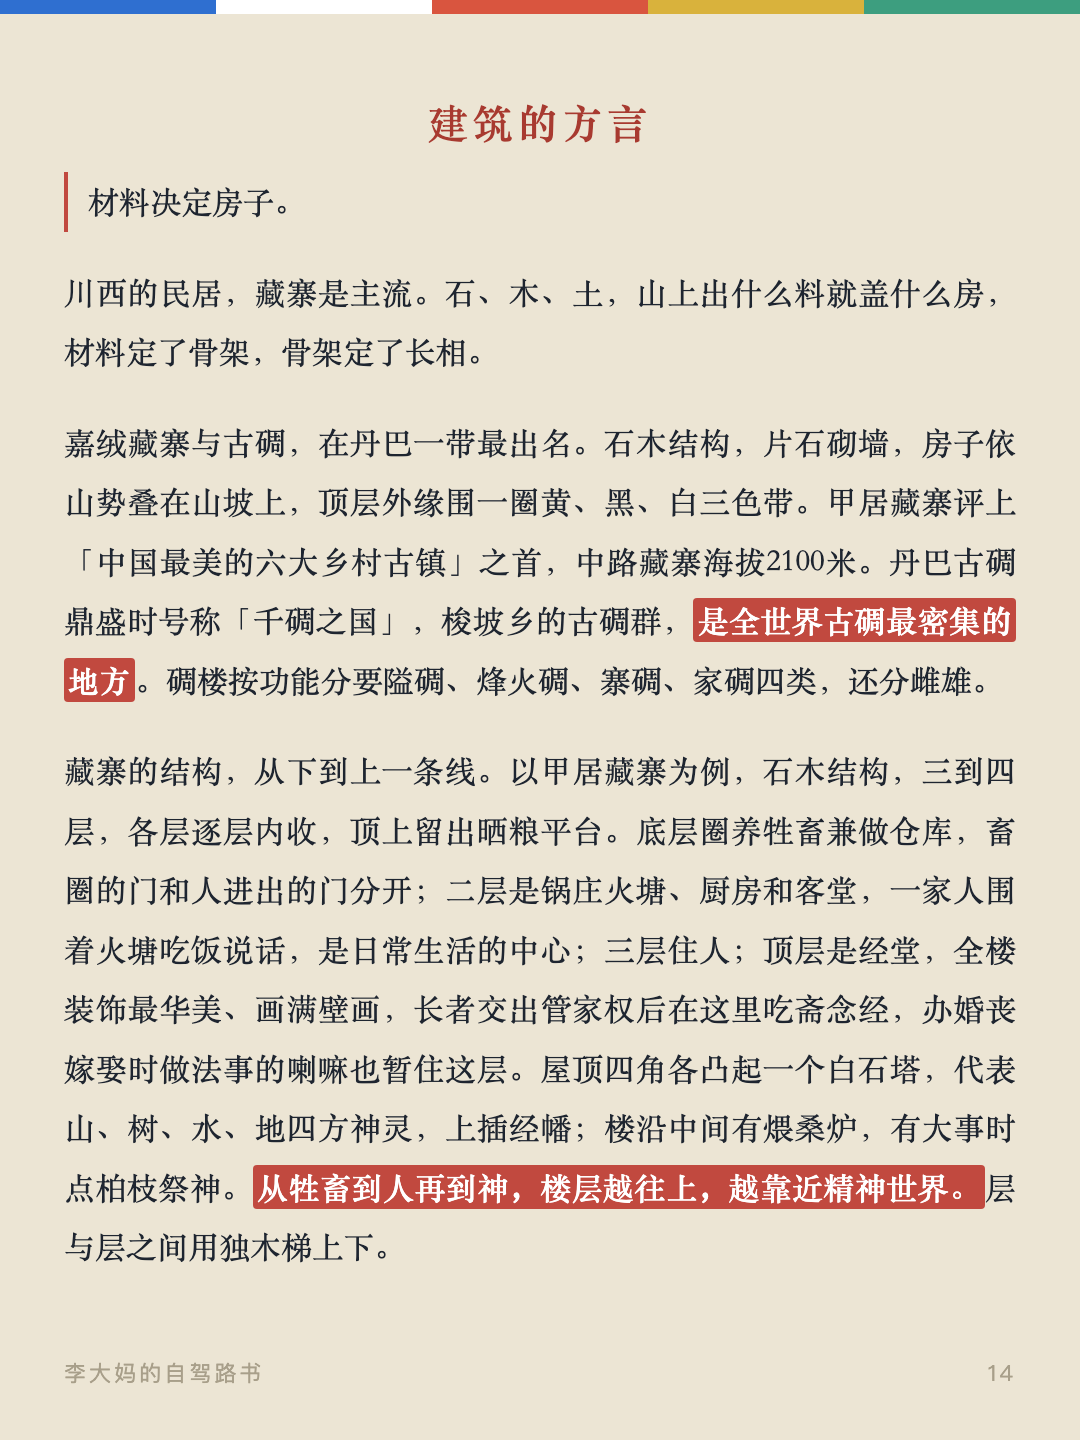
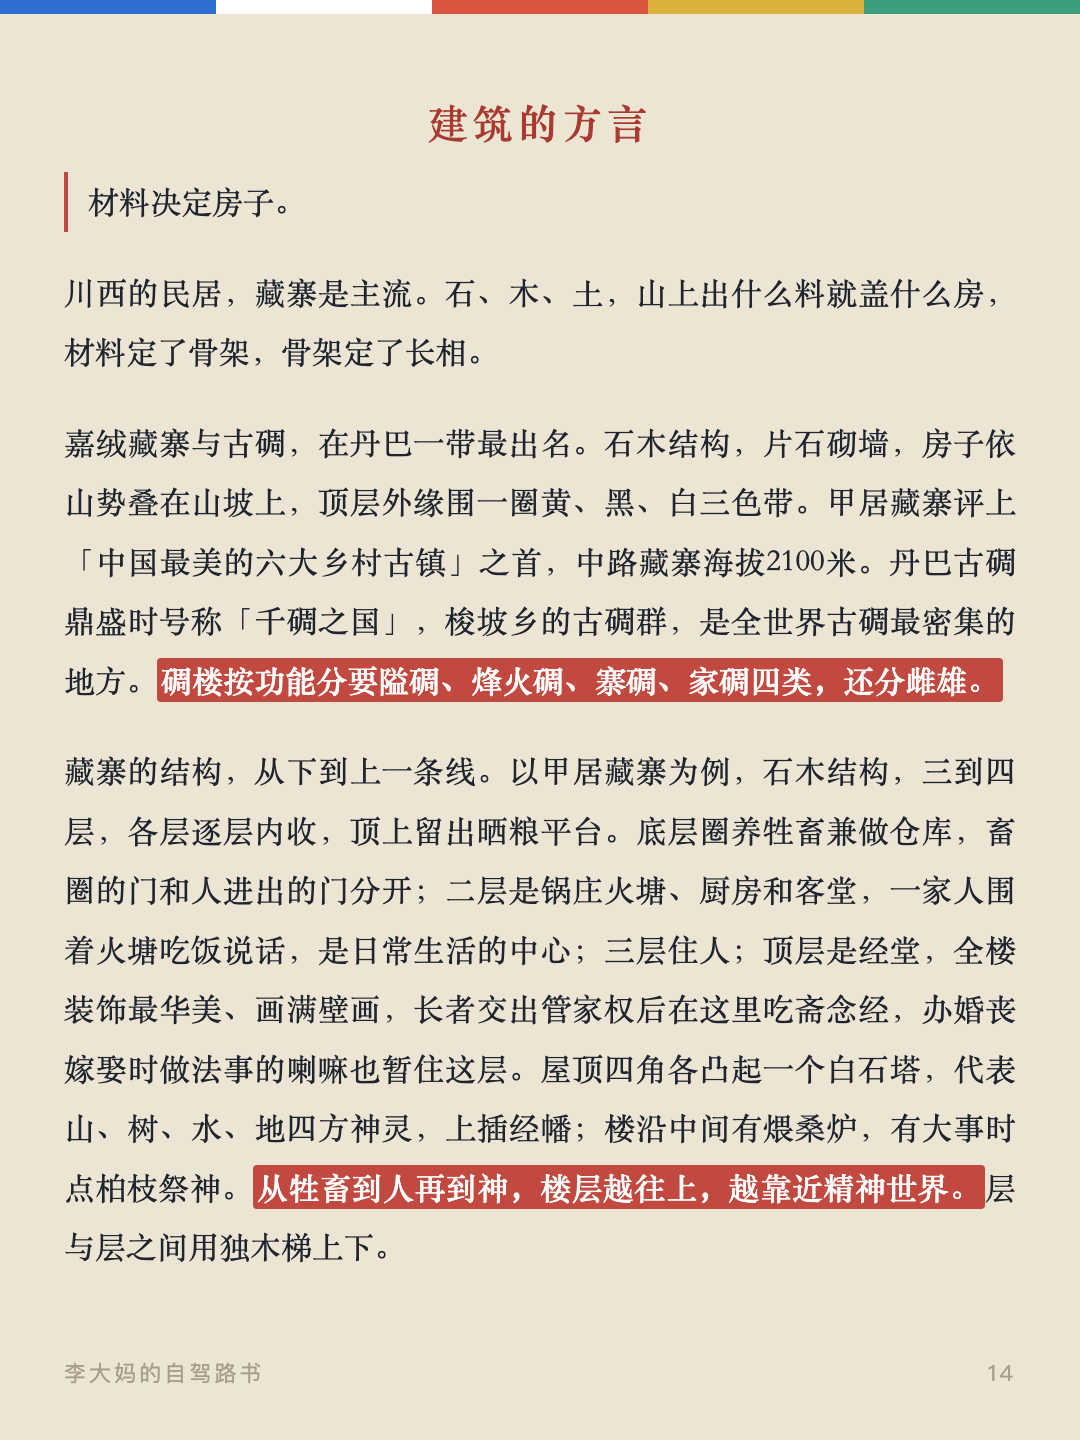
碉楼高亮调整：去古碉最密集高亮，加碉楼功能分类高亮

Changed region(s): [[0.0611, 0.4062, 0.9472, 0.5]]

diff --git a/cards.html b/cards.html
@@ -149,7 +149,7 @@
 
 <div class="card" id="card13"><div class="flag" aria-hidden="true"><span style="background:var(--flag-blue)"></span><span style="background:var(--flag-white)"></span><span style="background:var(--flag-red)"></span><span style="background:var(--flag-yellow)"></span><span style="background:var(--flag-green)"></span></div><div class="card__inner"><p>印刷是流水线工序：裁纸、泡纸、兑墨、研朱砂、印刷、晾晒、分页、核对、装订，十几道。印经书三人一组，一高一矮相对坐，高者固定印纸刷墨，矮者递纸、用卷布滚筒滚印，配合熟练的一天印2400张4800页。材料也讲究：<strong>藏纸用瑞香狼毒草的根，含毒，虫不蛀、鼠不咬</strong>；雕版用海拔3000米以上的红桦木，微火熏烤、水煮、烘干，刻好的版要过12次审校，在酥油里泡一天才算完成。</p><p><strong>印经院至今没通电</strong>，是怕火险伤经版，游客就着天光看印刷间。古旧经版现在限量印刷，近十年复刻了2.2万余块新版供印，古版封存，印版修复每年补刻230余块。2006年它进了国家级非遗，2009年被联合国教科文组织列入人类非物质文化遗产代表作名录。</p><div class="card__foot"><span>李大妈的自驾路书</span><span>13</span></div></div></div>
 
-<div class="card" id="card14"><div class="flag" aria-hidden="true"><span style="background:var(--flag-blue)"></span><span style="background:var(--flag-white)"></span><span style="background:var(--flag-red)"></span><span style="background:var(--flag-yellow)"></span><span style="background:var(--flag-green)"></span></div><div class="card__inner"><h2>建筑的方言</h2><p class="card__lead">材料决定房子。</p><p>川西的民居，藏寨是主流。石、木、土，山上出什么料就盖什么房，材料定了骨架，骨架定了长相。</p><p>嘉绒藏寨与古碉，在丹巴一带最出名。石木结构，片石砌墙，房子依山势叠在山坡上，顶层外缘围一圈黄、黑、白三色带。甲居藏寨评上「中国最美的六大乡村古镇」之首，中路藏寨海拔2100米。丹巴古碉鼎盛时号称「千碉之国」，梭坡乡的古碉群，<strong>是全世界古碉最密集的地方</strong>。碉楼按功能分要隘碉、烽火碉、寨碉、家碉四类，还分雌雄。</p><p>藏寨的结构，从下到上一条线。以甲居藏寨为例，石木结构，三到四层，各层逐层内收，顶上留出晒粮平台。底层圈养牲畜兼做仓库，畜圈的门和人进出的门分开；二层是锅庄火塘、厨房和客堂，一家人围着火塘吃饭说话，是日常生活的中心；三层住人；顶层是经堂，全楼装饰最华美、画满壁画，长者交出管家权后在这里吃斋念经，办婚丧嫁娶时做法事的喇嘛也暂住这层。屋顶四角各凸起一个白石塔，代表山、树、水、地四方神灵，上插经幡；楼沿中间有煨桑炉，有大事时点柏枝祭神。<strong>从牲畜到人再到神，楼层越往上，越靠近精神世界。</strong>层与层之间用独木梯上下。</p><div class="card__foot"><span>李大妈的自驾路书</span><span>14</span></div></div></div>
+<div class="card" id="card14"><div class="flag" aria-hidden="true"><span style="background:var(--flag-blue)"></span><span style="background:var(--flag-white)"></span><span style="background:var(--flag-red)"></span><span style="background:var(--flag-yellow)"></span><span style="background:var(--flag-green)"></span></div><div class="card__inner"><h2>建筑的方言</h2><p class="card__lead">材料决定房子。</p><p>川西的民居，藏寨是主流。石、木、土，山上出什么料就盖什么房，材料定了骨架，骨架定了长相。</p><p>嘉绒藏寨与古碉，在丹巴一带最出名。石木结构，片石砌墙，房子依山势叠在山坡上，顶层外缘围一圈黄、黑、白三色带。甲居藏寨评上「中国最美的六大乡村古镇」之首，中路藏寨海拔2100米。丹巴古碉鼎盛时号称「千碉之国」，梭坡乡的古碉群，是全世界古碉最密集的地方。<strong>碉楼按功能分要隘碉、烽火碉、寨碉、家碉四类，还分雌雄。</strong></p><p>藏寨的结构，从下到上一条线。以甲居藏寨为例，石木结构，三到四层，各层逐层内收，顶上留出晒粮平台。底层圈养牲畜兼做仓库，畜圈的门和人进出的门分开；二层是锅庄火塘、厨房和客堂，一家人围着火塘吃饭说话，是日常生活的中心；三层住人；顶层是经堂，全楼装饰最华美、画满壁画，长者交出管家权后在这里吃斋念经，办婚丧嫁娶时做法事的喇嘛也暂住这层。屋顶四角各凸起一个白石塔，代表山、树、水、地四方神灵，上插经幡；楼沿中间有煨桑炉，有大事时点柏枝祭神。<strong>从牲畜到人再到神，楼层越往上，越靠近精神世界。</strong>层与层之间用独木梯上下。</p><div class="card__foot"><span>李大妈的自驾路书</span><span>14</span></div></div></div>
 
 <div class="card" id="card15"><div class="flag" aria-hidden="true"><span style="background:var(--flag-blue)"></span><span style="background:var(--flag-white)"></span><span style="background:var(--flag-red)"></span><span style="background:var(--flag-yellow)"></span><span style="background:var(--flag-green)"></span></div><div class="card__inner"><p>古碉的来历比寨子长。雏形约3500年前就出现，和丹巴中路罕额依的新石器遗址一脉相承。汉代，这一带的冉駹夷为抵御北方游牧羌人的进攻，在石室基础上建起碉楼，《后汉书》记载他们「累石为室，高者至十余丈，为邛笼」，邛笼就是碉楼。明清碉楼最多时约3000座。乾隆两次用兵大小金川，前后打了十几年，金川「地险碉坚」，清军动火炮才拿下。防御做得很细：碉门开在二层楼高的位置，战时收独木梯、关碉门；射击孔做成喇叭形，墙外收窄、墙内放宽，挡得住箭，又不挡视线；墙底厚1.5到2米，顶部收薄到0.5到0.6米。还有一条老规矩：谁家生了男孩就修高碉，每长一岁加修一层，<strong>长到18岁碉楼正好18层，成人礼上把炼成的钢刀交给他</strong>。</p><p>道孚崩科，是另一类藏式民居，骨架全用木头。「崩」是木头架起来，「科」是房子。圆木对劈、卯榫咬合，<strong>整栋房不用一颗铁钉</strong>。1973年炉霍大地震，片石墙房成片倒塌，木构的崩科扛住了，这一带重建时普遍改用这套做法，道孚、炉霍现存的民居就以崩科为主。崩科大小以「空」计数，四根柱子之间算一空，约二十平方米。室内精雕细镂、描金绘彩，外号「民间故宫」。</p><div class="card__foot"><span>李大妈的自驾路书</span><span>15</span></div></div></div>
 

diff --git a/index.html b/index.html
@@ -288,7 +288,7 @@
       <div class="part__head"><span class="part__no" aria-hidden="true">六</span><h2>建筑的方言</h2></div>
       <p class="part__lead">材料决定房子。</p>
       <p>川西的民居，藏寨是主流。石、木、土，山上出什么料就盖什么房，材料定了骨架，骨架定了长相。</p>
-      <p>嘉绒藏寨与古碉，在丹巴一带最出名。石木结构，片石砌墙，房子依山势叠在山坡上，顶层外缘围一圈黄、黑、白三色带。甲居藏寨评上「中国最美的六大乡村古镇」之首，中路藏寨海拔2100米。丹巴古碉鼎盛时号称「千碉之国」，梭坡乡的古碉群，<strong>是全世界古碉最密集的地方</strong>。碉楼按功能分要隘碉、烽火碉、寨碉、家碉四类，还分雌雄。</p>
+      <p>嘉绒藏寨与古碉，在丹巴一带最出名。石木结构，片石砌墙，房子依山势叠在山坡上，顶层外缘围一圈黄、黑、白三色带。甲居藏寨评上「中国最美的六大乡村古镇」之首，中路藏寨海拔2100米。丹巴古碉鼎盛时号称「千碉之国」，梭坡乡的古碉群，是全世界古碉最密集的地方。<strong>碉楼按功能分要隘碉、烽火碉、寨碉、家碉四类，还分雌雄。</strong></p>
       <p>藏寨的结构，从下到上一条线。以甲居藏寨为例，石木结构，三到四层，各层逐层内收，顶上留出晒粮平台。底层圈养牲畜兼做仓库，畜圈的门和人进出的门分开；二层是锅庄火塘、厨房和客堂，一家人围着火塘吃饭说话，是日常生活的中心；三层住人；顶层是经堂，全楼装饰最华美、画满壁画，长者交出管家权后在这里吃斋念经，办婚丧嫁娶时做法事的喇嘛也暂住这层。屋顶四角各凸起一个白石塔，代表山、树、水、地四方神灵，上插经幡；楼沿中间有煨桑炉，有大事时点柏枝祭神。<strong>从牲畜到人再到神，楼层越往上，越靠近精神世界。</strong>层与层之间用独木梯上下。</p>
       <p>古碉的来历比寨子长。雏形约3500年前就出现，和丹巴中路罕额依的新石器遗址一脉相承。汉代，这一带的冉駹夷为抵御北方游牧羌人的进攻，在石室基础上建起碉楼，《后汉书》记载他们「累石为室，高者至十余丈，为邛笼」，邛笼就是碉楼。明清碉楼最多时约3000座。乾隆两次用兵大小金川，前后打了十几年，金川「地险碉坚」，清军动火炮才拿下。防御做得很细：碉门开在二层楼高的位置，战时收独木梯、关碉门；射击孔做成喇叭形，墙外收窄、墙内放宽，挡得住箭，又不挡视线；墙底厚1.5到2米，顶部收薄到0.5到0.6米。还有一条老规矩：谁家生了男孩就修高碉，每长一岁加修一层，<strong>长到18岁碉楼正好18层，成人礼上把炼成的钢刀交给他</strong>。</p>
       <p>道孚崩科，是另一类藏式民居，骨架全用木头。「崩」是木头架起来，「科」是房子。圆木对劈、卯榫咬合，<strong>整栋房不用一颗铁钉</strong>。1973年炉霍大地震，片石墙房成片倒塌，木构的崩科扛住了，这一带重建时普遍改用这套做法，道孚、炉霍现存的民居就以崩科为主。崩科大小以「空」计数，四根柱子之间算一空，约二十平方米。室内精雕细镂、描金绘彩，外号「民间故宫」。</p>

diff --git a/gen_cards.py b/gen_cards.py
@@ -79,7 +79,7 @@ BODY_STREAM = [
   ('h2', '建筑的方言'),
   ('lead', '材料决定房子。'),
   ('p', '川西的民居，藏寨是主流。石、木、土，山上出什么料就盖什么房，材料定了骨架，骨架定了长相。'),
-  ('p', '嘉绒藏寨与古碉，在丹巴一带最出名。石木结构，片石砌墙，房子依山势叠在山坡上，顶层外缘围一圈黄、黑、白三色带。甲居藏寨评上「中国最美的六大乡村古镇」之首，中路藏寨海拔2100米。丹巴古碉鼎盛时号称「千碉之国」，梭坡乡的古碉群，<strong>是全世界古碉最密集的地方</strong>。碉楼按功能分要隘碉、烽火碉、寨碉、家碉四类，还分雌雄。'),
+  ('p', '嘉绒藏寨与古碉，在丹巴一带最出名。石木结构，片石砌墙，房子依山势叠在山坡上，顶层外缘围一圈黄、黑、白三色带。甲居藏寨评上「中国最美的六大乡村古镇」之首，中路藏寨海拔2100米。丹巴古碉鼎盛时号称「千碉之国」，梭坡乡的古碉群，是全世界古碉最密集的地方。<strong>碉楼按功能分要隘碉、烽火碉、寨碉、家碉四类，还分雌雄。</strong>'),
   ('p', '藏寨的结构，从下到上一条线。以甲居藏寨为例，石木结构，三到四层，各层逐层内收，顶上留出晒粮平台。底层圈养牲畜兼做仓库，畜圈的门和人进出的门分开；二层是锅庄火塘、厨房和客堂，一家人围着火塘吃饭说话，是日常生活的中心；三层住人；顶层是经堂，全楼装饰最华美、画满壁画，长者交出管家权后在这里吃斋念经，办婚丧嫁娶时做法事的喇嘛也暂住这层。屋顶四角各凸起一个白石塔，代表山、树、水、地四方神灵，上插经幡；楼沿中间有煨桑炉，有大事时点柏枝祭神。<strong>从牲畜到人再到神，楼层越往上，越靠近精神世界。</strong>层与层之间用独木梯上下。'),
   ('p', '古碉的来历比寨子长。雏形约3500年前就出现，和丹巴中路罕额依的新石器遗址一脉相承。汉代，这一带的冉駹夷为抵御北方游牧羌人的进攻，在石室基础上建起碉楼，《后汉书》记载他们「累石为室，高者至十余丈，为邛笼」，邛笼就是碉楼。明清碉楼最多时约3000座。乾隆两次用兵大小金川，前后打了十几年，金川「地险碉坚」，清军动火炮才拿下。防御做得很细：碉门开在二层楼高的位置，战时收独木梯、关碉门；射击孔做成喇叭形，墙外收窄、墙内放宽，挡得住箭，又不挡视线；墙底厚1.5到2米，顶部收薄到0.5到0.6米。还有一条老规矩：谁家生了男孩就修高碉，每长一岁加修一层，<strong>长到18岁碉楼正好18层，成人礼上把炼成的钢刀交给他</strong>。'),
   ('p', '道孚崩科，是另一类藏式民居，骨架全用木头。「崩」是木头架起来，「科」是房子。圆木对劈、卯榫咬合，<strong>整栋房不用一颗铁钉</strong>。1973年炉霍大地震，片石墙房成片倒塌，木构的崩科扛住了，这一带重建时普遍改用这套做法，道孚、炉霍现存的民居就以崩科为主。崩科大小以「空」计数，四根柱子之间算一空，约二十平方米。室内精雕细镂、描金绘彩，外号「民间故宫」。'),
